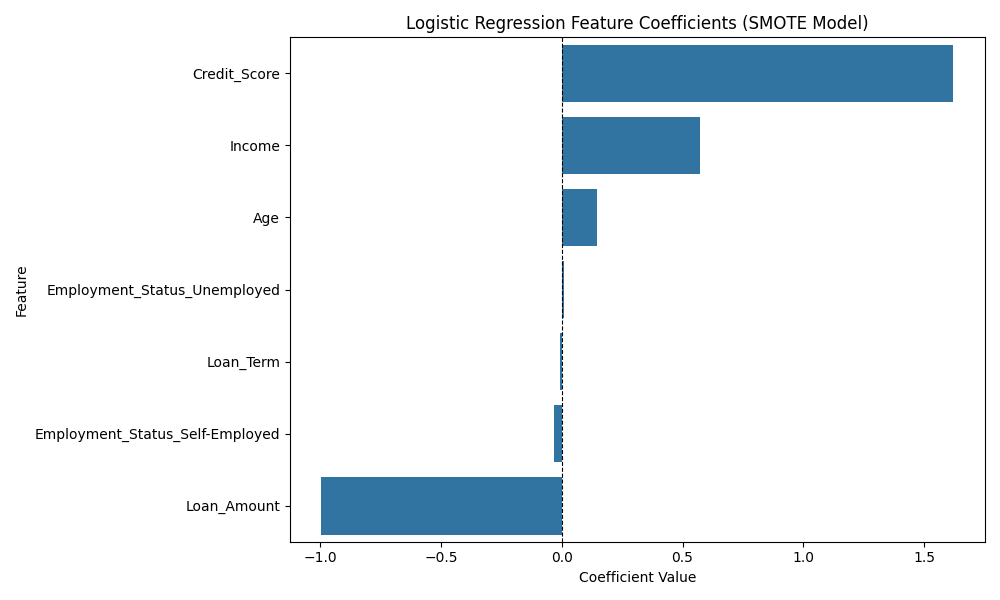
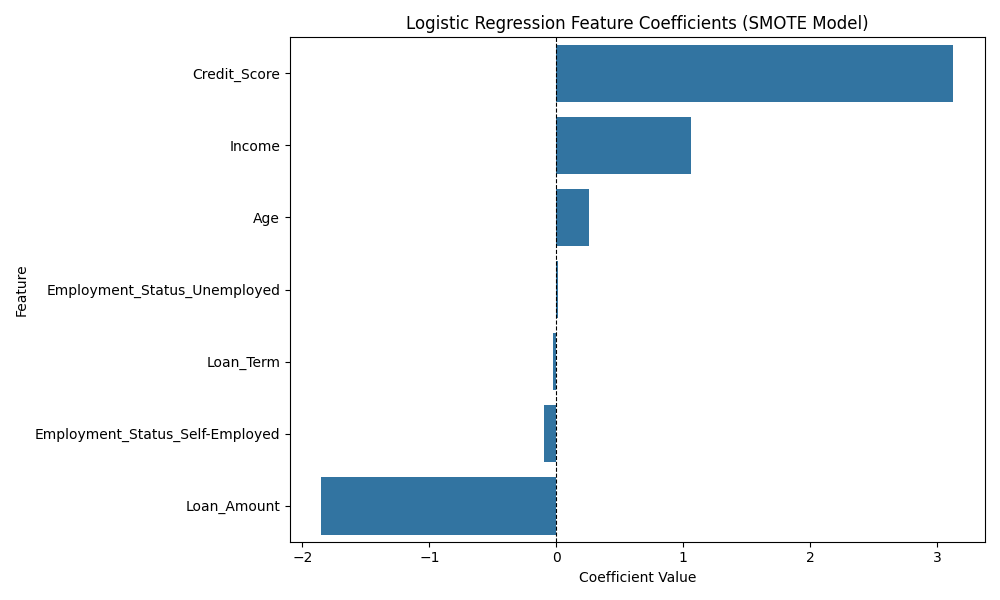
Add hyperparameter tuning via GridSearchCV to optimize Logistic Regression C value

diff --git a/feature/train.py b/feature/train.py
@@ -5,7 +5,7 @@ import joblib
 import matplotlib.pyplot as plt
 import seaborn as sns
 
-from sklearn.model_selection import train_test_split
+from sklearn.model_selection import train_test_split, GridSearchCV
 from sklearn.preprocessing import StandardScaler
 from sklearn.linear_model import LogisticRegression
 from sklearn.calibration import CalibratedClassifierCV
@@ -18,7 +18,7 @@ from imblearn.over_sampling import SMOTE
 # Create folder for saving visualizations
 os.makedirs("feature/visualizations", exist_ok=True)
 
-# Load preprocessed data (unscaled)
+# Load preprocessed data
 data = pd.read_csv("data/processed_data.csv")
 
 X = data.drop("Loan_Approved", axis=1)
@@ -65,10 +65,36 @@ baseline_model = LogisticRegression(max_iter=1000)
 baseline_model.fit(X_train_scaled, y_train)
 y_prob_baseline = baseline_model.predict_proba(X_test_scaled)[:, 1]
 
-# Main model with SMOTE and probability calibration
-# C=0.01 applies strong regularization to prevent overconfident predictions
+
+# GridSearchCV to find the best C value automatically
+# Scoring on f1 to balance precision and recall for imbalanced data
+print("\nRunning GridSearchCV to find best C...")
+
+param_grid = {'C': [0.001, 0.01, 0.1, 0.5, 1, 5, 10]}
+grid_search = GridSearchCV(
+    LogisticRegression(max_iter=1000, solver='lbfgs'),
+    param_grid,
+    cv=5,
+    scoring='f1',
+    n_jobs=-1
+)
+grid_search.fit(X_train_resampled, y_train_resampled)
+
+best_C = grid_search.best_params_['C']
+print(f"Best C found: {best_C}")
+print(f"Best CV F1 Score: {round(grid_search.best_score_, 4)}")
+
+# Print full GridSearchCV results
+results_df = pd.DataFrame(grid_search.cv_results_)[['param_C', 'mean_test_score', 'std_test_score']]
+results_df.columns = ['C Value', 'Mean F1 Score', 'Std F1 Score']
+results_df = results_df.sort_values('Mean F1 Score', ascending=False)
+print("\nGridSearchCV Results:")
+print(results_df.to_string(index=False))
+
+
+# Main model using best C from GridSearchCV with probability calibration
 # isotonic calibration produces more realistic confidence scores
-base_model = LogisticRegression(max_iter=1000, C=0.01, solver='lbfgs')
+base_model = LogisticRegression(max_iter=1000, C=best_C, solver='lbfgs')
 model = CalibratedClassifierCV(base_model, cv=5, method='isotonic')
 model.fit(X_train_resampled, y_train_resampled)
 
@@ -127,6 +153,25 @@ plt.close()
 print(f"\nROC AUC — Baseline: {auc1:.4f} | SMOTE: {auc2:.4f}")
 
 
+# GridSearchCV C value vs F1 Score visualization
+plt.figure()
+plt.plot(
+    results_df['C Value'].astype(float),
+    results_df['Mean F1 Score'],
+    marker='o', color='steelblue'
+)
+plt.xscale('log')
+plt.axvline(x=best_C, color='red', linestyle='--', label=f'Best C = {best_C}')
+plt.title("GridSearchCV — C Value vs F1 Score")
+plt.xlabel("C Value (log scale)")
+plt.ylabel("Mean F1 Score (CV=5)")
+plt.legend()
+plt.grid(True)
+plt.tight_layout()
+plt.savefig("feature/visualizations/gridsearch_results.png")
+plt.close()
+
+
 # Feature coefficients to show impact of each feature on prediction
 lr_coef = base_model.fit(X_train_resampled, y_train_resampled)
 coef_df = pd.DataFrame({
@@ -156,4 +201,5 @@ print("  - class_before_smote.png")
 print("  - class_after_smote.png")
 print("  - confusion_matrix.png")
 print("  - roc_curve.png")
+print("  - gridsearch_results.png")
 print("  - feature_coefficients.png")
